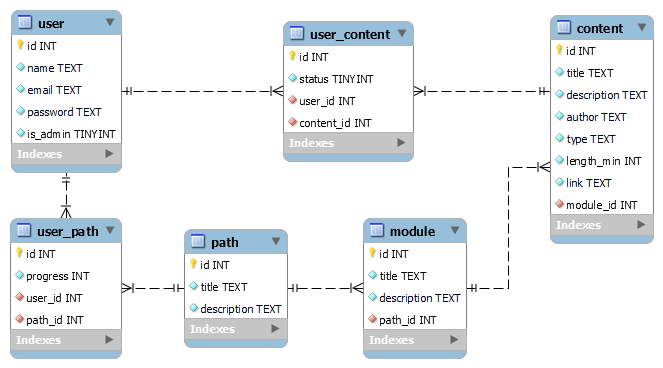
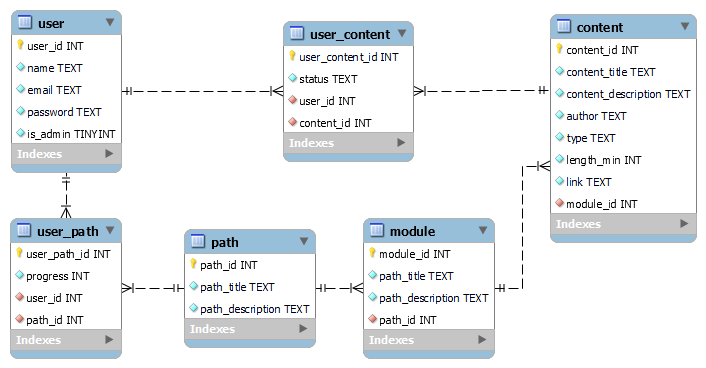
feat: Funcionalidades de conteúdo implementadas no backend

diff --git a/backend/src/database/dao.js b/backend/src/database/dao.js
@@ -9,7 +9,7 @@ export default class {
         // Cria a tabela user, que recebe os dados do usuário da plataforma.
         db.run(`
           CREATE TABLE IF NOT EXISTS user (
-            id INTEGER NOT NULL PRIMARY KEY,
+            user_id INTEGER NOT NULL PRIMARY KEY,
             name TEXT NOT NULL,
             email TEXT NOT NULL,
             password TEXT NOT NULL,
@@ -18,25 +18,25 @@ export default class {
         // Cria a tabela path, que recebe os dados das trilhas da plataforma
         db.run(`
           CREATE TABLE IF NOT EXISTS path (
-            id INTEGER NOT NULL PRIMARY KEY,
-            title TEXT NOT NULL,
-            description TEXT NOT NULL)`);
+            path_id INTEGER NOT NULL PRIMARY KEY,
+            path_title TEXT NOT NULL,
+            path_description TEXT NOT NULL)`);
 
         // Cria a tabela module, que recebe os dados dos módulos das trilhas
-        db.exec(`
+        db.run(`
           CREATE TABLE IF NOT EXISTS module (
-            id INTEGER NOT NULL PRIMARY KEY,
-            title TEXT NOT NULL,
-            description TEXT NOT NULL,
+            module_id INTEGER NOT NULL PRIMARY KEY,
+            module_title TEXT NOT NULL,
+            module_description TEXT NOT NULL,
             path_id INTEGER NOT NULL,
             FOREIGN KEY(path_id) REFERENCES path(id))`);
 
         // Cria a tabela content, que recebe os dados dos conteúdos da plataforma
         db.run(`
           CREATE TABLE IF NOT EXISTS content (
-            id INTEGER NOT NULL PRIMARY KEY,
-            title TEXT NOT NULL,
-            description TEXT NOT NULL,
+            content_id INTEGER NOT NULL PRIMARY KEY,
+            content_title TEXT NOT NULL,
+            content_description TEXT NOT NULL,
             author TEXT NOT NULL,
             type TEXT NOT NULL,
             length_min INTEGER NOT NULL,
@@ -47,7 +47,7 @@ export default class {
         // Cria a tabela user_path, que recebe os dados do relacionamento do usuário com a trilha
         db.run(`
           CREATE TABLE IF NOT EXISTS user_path (
-            id INTEGER NOT NULL PRIMARY KEY,
+            user_path_id INTEGER NOT NULL PRIMARY KEY,
             user_id INTEGER NOT NULL,
             path_id INTEGER NOT NULL,
             progress INTEGER NOT NULL,
@@ -57,7 +57,7 @@ export default class {
         // Cria a tabela user_content, que recebe os dados do relacionamento do usuário com o conteúdo
         db.run(`
             CREATE TABLE IF NOT EXISTS user_content (
-              id INTEGER NOT NULL PRIMARY KEY,
+              user_content_id INTEGER NOT NULL PRIMARY KEY,
               user_id INTEGER NOT NULL,
               content_id INTEGER NOT NULL,
               status TEXT NOT NULL,
@@ -73,12 +73,25 @@ export default class {
       openDb().then((db) => {
         db.get(stmt, params, (error, result) => {
           if (!result) {
-            console.log(rej);
             return rej(error.message);
           }
         }).then((data) => {
           return res(data);
         });
+      });
+    });
+  }
+
+  static all(stmt, params) {
+    return new Promise((res, rej) => {
+      openDb().then((db) => {
+        db.all(stmt, params)
+          .then((data) => {
+            return res(data);
+          })
+          .catch((err) => {
+            return rej(err);
+          });
       });
     });
   }

diff --git a/backend/src/models/content.model.js b/backend/src/models/content.model.js
@@ -1,0 +1,36 @@
+import dao from "../database/dao.js";
+
+export default class {
+  // encontra usuário por id
+  static async getContentById(id) {
+    return dao.get("SELECT * FROM content WHERE content_id=?", [id]);
+  }
+
+  //lista conteudos do módulo
+  static async getModuleContent(module_id) {
+    return dao.all("SELECT * FROM content WHERE module_id=?", [module_id]);
+  }
+
+  //lista conteúdos da trilha com infos dos módulos
+  static async getPathContent(module_id, path_id) {
+    return dao.all(
+      "SELECT content_id, content_title, content_description, author, type, length_min, link, module_title, path_title FROM content INNER JOIN module ON module.module_id=? INNER JOIN path ON path.path_id=?",
+      [module_id, path_id]
+    );
+  }
+
+  // encontra modulo por id
+  static async getModuleById(id) {
+    return dao.get("SELECT * FROM module WHERE module_id=?", [id]);
+  }
+
+  // lista modulos da trilha
+  static async getModulesByPathId(path_id) {
+    return dao.all("SELECT * FROM module WHERE path_id=?", [path_id]);
+  }
+
+  // encontra trilha por id
+  static async getPathById(id) {
+    return dao.get("SELECT * FROM path WHERE path_id=?", [id]);
+  }
+}

diff --git a/backend/src/controllers/content.controller.js b/backend/src/controllers/content.controller.js
@@ -1,0 +1,41 @@
+import repository from "../models/content.model.js";
+
+export const content = async (req, res) => {
+  const req_path_id = req.body.path.path_id;
+
+  //seleciona trilha
+  const path = await repository.getPathById(req_path_id);
+
+  // verifica existência da trilha
+  if (!path) {
+    res.status(404);
+    return res.json({ msg: "Trilha não existente." });
+  }
+
+  // lista modulos da trilha
+  const modules = await repository.getModulesByPathId(req_path_id);
+
+  // verifica se existem modulos na trilha
+  if (modules.length < 1) {
+    res.status(404);
+    return res.json({ msg: "Nenhum módulo cadastrado na trilha" });
+  }
+  // erro para baixo v
+
+  let data = [];
+  modules.some(async (mod) => {
+    // consulta os conteúdos do modulo
+    const moduleContent = await repository.getModuleContent(mod.module_id);
+
+    if (moduleContent) {
+      const content = await repository.getPathContent(
+        mod.module_id,
+        path.path_id
+      );
+      data.push(content);
+    }
+    res.status(200);
+
+    return res.json(data);
+  });
+};

diff --git a/backend/src/models/authentication.model.js b/backend/src/models/authentication.model.js
@@ -1,19 +1,23 @@
-import dao from "./dao.js";
+import dao from "../database/dao.js";
 
 export default class {
+  // lista todos os usuários
   static async getAllUsers() {
     return dao.all("SELECT * FROM user", []);
   }
 
+  // encontra usuário por id
   static async getUserById(id) {
-    return dao.get("SELECT * FROM user WHERE id=?", [id]);
+    return dao.get("SELECT * FROM user WHERE user_id=?", [id]);
   }
 
+  // encontra usuário por email
   static async getUserByEmail(email) {
     const resposta = dao.get("SELECT * FROM user WHERE email=?", [email]);
     return resposta;
   }
 
+  // encotra usuário por email e senha
   static async getUserByEmailAndPassword(email, password) {
     return dao.get("SELECT * FROM user WHERE email=? AND password=?", [
       email,

diff --git a/backend/src/app.js b/backend/src/app.js
@@ -1,11 +1,13 @@
 import express from "express";
 import dao from "./database/dao.js";
 import authenticationRouter from "./routes/authentication.routes.js";
+import contentRouter from "./routes/content.routes.js";
 
 const app = express();
 
 app.use(express.json()); //Processa JSON e coloca os dados no req.body
 app.use(authenticationRouter);
+app.use(contentRouter);
 
 dao.setupDb(); // Cria tabelas do banco se não existir
 

diff --git a/backend/src/routes/content.routes.js b/backend/src/routes/content.routes.js
@@ -1,0 +1,8 @@
+import { Router } from "express";
+import { content } from "../controllers/content.controller.js";
+
+const router = Router();
+
+router.get("/content", content);
+
+export default router;

diff --git a/backend/src/controllers/authentication.controller.js b/backend/src/controllers/authentication.controller.js
@@ -1,4 +1,4 @@
-import repository from "../database/repository.js";
+import repository from "../models/authentication.model.js";
 
 export const returnInvalidCredentials = (res) => {
   res.status(401);

diff --git a/backend/README.md b/backend/README.md
@@ -22,7 +22,7 @@ Código de criação da tabela user, que recebe os dados dos usuários da plataf
 
 <pre>
 CREATE TABLE IF NOT EXISTS user (
-id INTEGER NOT NULL PRIMARY KEY,
+user_id INTEGER NOT NULL PRIMARY KEY,
 name TEXT NOT NULL,
 email TEXT NOT NULL,
 password TEXT NOT NULL,
@@ -33,12 +33,12 @@ is_admin INTEGER NOT NULL
 Exemplos de inserts:
 
 <pre>
-INSERT INTO usuario (name, email, password, is_admin) VALUES ("", "", "", 0); // insert sem valores
+INSERT INTO user (name, email, password, is_admin) VALUES ("", "", "", 0); // insert sem valores
 
-INSERT INTO usuario (name, email, password, is_admin) VALUES ("Arthur", "arthur@arthur.com", "123456", 0);
-INSERT INTO usuario (name, email, password, is_admin) VALUES ("Rosana", "rosana@rosana.com", "123456", 0);
-INSERT INTO usuario (name, email, password, is_admin) VALUES ("Lucyan", "lucyan@lucyan.com", "123456", 0);
-INSERT INTO usuario (name, email, password, is_admin) VALUES ("Juliana", juliana@juliana.com", "123456", 0);
+INSERT INTO user (name, email, password, is_admin) VALUES ("Arthur", "arthur@arthur.com", "123456", 0);
+INSERT INTO user (name, email, password, is_admin) VALUES ("Rosana", "rosana@rosana.com", "123456", 0);
+INSERT INTO user (name, email, password, is_admin) VALUES ("Lucyan", "lucyan@lucyan.com", "123456", 0);
+INSERT INTO user (name, email, password, is_admin) VALUES ("Juliana", "juliana@juliana.com", "123456", 0);
 </pre>
 
 ---
@@ -49,20 +49,20 @@ Código de criação da tabela path, que recebe os dados das trilhas da platafor
 
 <pre>
 CREATE TABLE IF NOT EXISTS path (
-id INTEGER NOT NULL PRIMARY KEY,
-title TEXT NOT NULL,
-description TEXT NOT NULL
+path_id INTEGER NOT NULL PRIMARY KEY,
+path_title TEXT NOT NULL,
+path_description TEXT NOT NULL
 );
 </pre>
 
 Exemplos de inserts:
 
 <pre>
-INSERT INTO path (title, description) VALUES ("", ""); // insert sem valores
+INSERT INTO path (path_title, path_description) VALUES ("", ""); // insert sem valores
 
-INSERT INTO path (title, description) VALUES ("UX/UI", "Tudo sobre UX/UI");
-INSERT INTO path (title, description) VALUES ("QA", "Tudo sobre QA");
-INSERT INTO path (title, description) VALUES ("Fullstack", "Tudo sobre Fullstack");
+INSERT INTO path (path_title, path_description) VALUES ("UX/UI", "Tudo sobre UX/UI");
+INSERT INTO path (path_title, path_description) VALUES ("QA", "Tudo sobre QA");
+INSERT INTO path (path_title, path_description) VALUES ("Fullstack", "Tudo sobre Fullstack");
 </pre>
 
 ---
@@ -73,22 +73,22 @@ Código de criação da tabela module, que recebe os dados dos módulos das tril
 
 <pre>
 CREATE TABLE IF NOT EXISTS module (
-id INTEGER NOT NULL PRIMARY KEY,
-title TEXT NOT NULL,
-description TEXT NOT NULL,
+module_id INTEGER NOT NULL PRIMARY KEY,
+module_title TEXT NOT NULL,
+module_description TEXT NOT NULL,
 path_id INTEGER NOT NULL,
-FOREIGN KEY(path_id) REFERENCES path(id)
+FOREIGN KEY(path_id) REFERENCES path(path_id)
 );
 </pre>
 
 Exemplos de inserts:
 
 <pre>
-INSERT INTO module (title, description, path_id) VALUES ("", "", 1); // insert sem valores
+INSERT INTO module (module_title, module_description, path_id) VALUES ("", "", 1); // insert sem valores
 
-INSERT INTO module (title, description, path_id) VALUES ("O Início", "Comece seu caminho por aqui", 1);
-INSERT INTO module (title, description, path_id) VALUES ("Fundamentos de UX(User Experience"), "O básico do UX", 1);
-INSERT INTO module (title, description, path_id) VALUES ("Fundamentos de UI", "O básico de UI", 1);
+INSERT INTO module (module_title, module_description, path_id) VALUES ("O Início", "Comece seu caminho por aqui", 1);
+INSERT INTO module (module_title, module_description, path_id) VALUES ("Fundamentos de UX(User Experience)", "O básico do UX", 1);
+INSERT INTO module (module_title, module_description, path_id) VALUES ("Fundamentos de UI", "O básico de UI", 1);
 </pre>
 
 ---
@@ -99,24 +99,24 @@ Código de criação da tabela content, que recebe os dados dos conteúdos da pl
 
 <pre>
 CREATE TABLE IF NOT EXISTS content (
-id INTEGER NOT NULL PRIMARY KEY,
-title TEXT NOT NULL,
-description TEXT NOT NULL,
+content_id INTEGER NOT NULL PRIMARY KEY,
+content_title TEXT NOT NULL,
+content_description TEXT NOT NULL,
 author TEXT NOT NULL,
 type TEXT NOT NULL,
 length_min INTEGER NOT NULL,
 link TEXT NOT NULL,
 module_id INTEGER NOT NULL,
-FOREIGN KEY(module_id) REFERENCES module(id)
+FOREIGN KEY(module_id) REFERENCES module(module_id)
 );
 </pre>
 
 Exemplos de inserts:
 
 <pre>
-INSERT INTO content VALUES (title, description, author, type, length_min, link, module_id) VALUES ("","","","",1,"",1); // insert sem valores
+INSERT INTO content (content_title, content_description, author, type, length_min, link, module_id) VALUES ("","","","",1,"",1); // insert sem valores
 
-INSERT INTO content VALUES (title, description, author, type, length_min, link, module_id) VALUES ("Migração de Carreira","Como funciona migração de carreira?","Orange Juice","Artigo",6,"https://medium.com/orangejuicefc/guia-definitivo-de-como-migrar-para-ux-design-5-passos-para-virar-um-ux-1675f71796b4",1);
+INSERT INTO content (content_title, content_description, author, type, length_min, link, module_id) VALUES ("Migração de Carreira","Como funciona migração de carreira?","Orange Juice","Artigo",6,"https://medium.com/orangejuicefc/guia-definitivo-de-como-migrar-para-ux-design-5-passos-para-virar-um-ux-1675f71796b4",1);
 </pre>
 
 ---
@@ -127,12 +127,12 @@ Código de criação da tabela user_path, que recebe os dados do relacionamento 
 
 <pre>
 CREATE TABLE IF NOT EXISTS user_path (
-id INTEGER NOT NULL PRIMARY KEY,
+user_path_id INTEGER NOT NULL PRIMARY KEY,
 user_id INTEGER NOT NULL,
 path_id INTEGER NOT NULL,
 progress INTEGER NOT NULL,
-FOREIGN KEY(user_id) REFERENCES user(id),
-FOREIGN KEY(path_id) REFERENCES path(id)
+FOREIGN KEY(user_id) REFERENCES user(user_id),
+FOREIGN KEY(path_id) REFERENCES path(path_id)
 );
 </pre>
 
@@ -150,12 +150,12 @@ Código de criação da tabela user_content, que recebe os dados do relacionamen
 
 <pre>
 CREATE TABLE IF NOT EXISTS user_content (
-id INTEGER NOT NULL PRIMARY KEY,
+user_content_id INTEGER NOT NULL PRIMARY KEY,
 user_id INTEGER NOT NULL,
 content_id INTEGER NOT NULL,
 status TEXT NOT NULL,
-FOREIGN KEY(user_id) REFERENCES user(id),
-FOREIGN KEY(content_id) REFERENCES content(id)
+FOREIGN KEY(user_id) REFERENCES user(user_id),
+FOREIGN KEY(content_id) REFERENCES content(user_id)
 );
 </pre>
 
